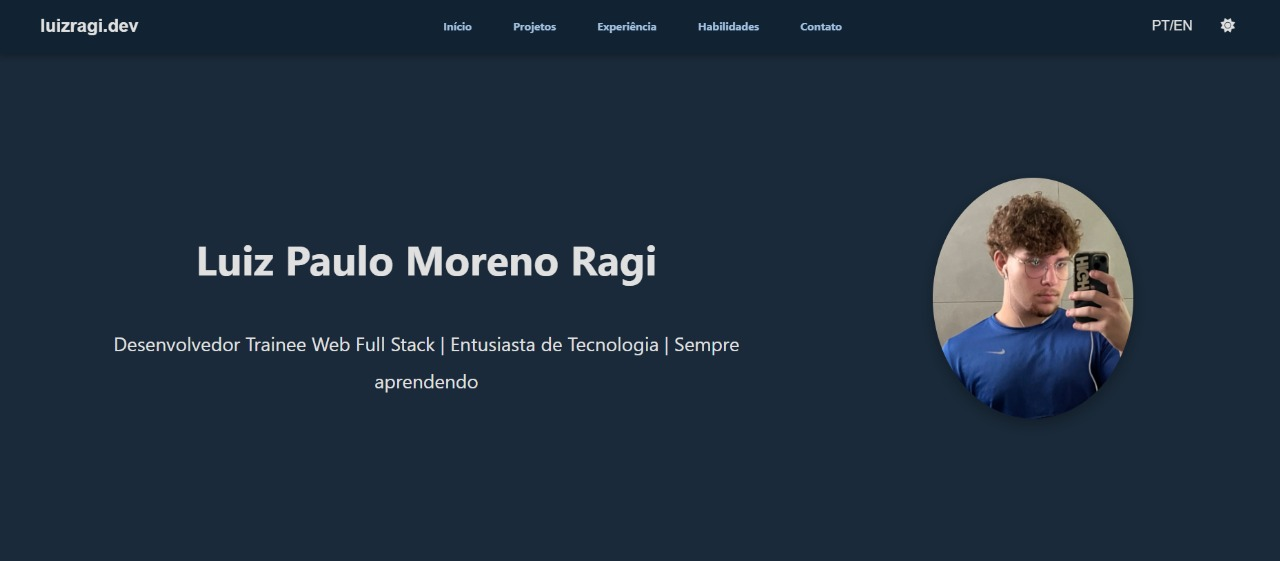
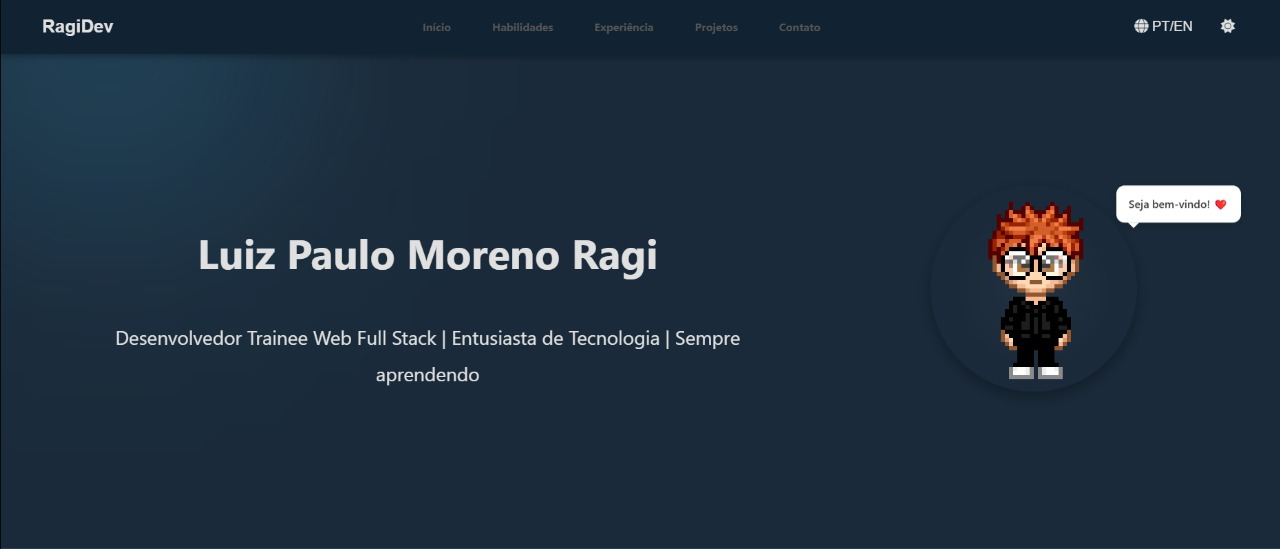
aaaa

diff --git a/index.html b/index.html
@@ -41,11 +41,13 @@
             </div>
 
             <div class="hero-image-wrapper">
-                <div class="hero-image">
-                    <img src="img/icon_pixel.png" alt="Sua Foto" class="profile-image-animated">
-                </div>
-                <div class="speech-bubble">
-                    Seja bem-vindo! ❤
+                <div class="floating-group">
+                    <div class="hero-image">
+                        <img src="img/icon_pixel.png" alt="Sua Foto">
+                    </div>
+                    <div class="speech-bubble">
+                        Seja bem-vindo! ❤
+                    </div>
                 </div>
             </div>
         </section>
@@ -57,31 +59,61 @@
                     <img src="img/icon_html.png" alt="HTML Icon">
                     <h3 data-i18n="skill-html-title">HTML5</h3>
                     <p data-i18n="skill-html-desc">Estruturação de conteúdo semântico.</p>
+                    <div class="skill-bar">
+                        <div class="skill-level" data-level="60%">
+                            <span class="skill-percentage">60%</span>
+                        </div>
+                    </div>
                 </div>
                 <div class="skill-card">
                     <img src="img/icon_css.png" alt="CSS Icon">
                     <h3 data-i18n="skill-css-title">CSS3</h3>
                     <p data-i18n="skill-css-desc">Estilização responsiva e animada.</p>
+                    <div class="skill-bar">
+                        <div class="skill-level" data-level="60%">
+                            <span class="skill-percentage">60%</span>
+                        </div>
+                    </div>
                 </div>
                 <div class="skill-card">
                     <img src="img/icon_js.png" alt="JavaScript Icon">
                     <h3 data-i18n="skill-js-title">JavaScript</h3>
                     <p data-i18n="skill-js-desc">Lógica de programação e interatividade web.</p>
+                    <div class="skill-bar">
+                        <div class="skill-level" data-level="60%">
+                            <span class="skill-percentage">60%</span>
+                        </div>
+                    </div>
                 </div>
                 <div class="skill-card">
                     <img src="img/icon_react.png" alt="React Icon">
                     <h3 data-i18n="skill-react-title">React</h3>
                     <p data-i18n="skill-react-desc">Criação de interfaces de usuário.</p>
+                    <div class="skill-bar">
+                        <div class="skill-level" data-level="35%">
+                            <span class="skill-percentage">35%</span>
+                        </div>
+                    </div>
                 </div>
                 <div class="skill-card">
                     <img src="img/icon_node.png" alt="Node.js Icon">
                     <h3 data-i18n="skill-node-title">Node.js</h3>
                     <p data-i18n="skill-node-desc">Desenvolvimento de back-end com JavaScript.</p>
+                    <div class="skill-bar">
+                        <div class="skill-level" data-level="35%">
+                            <span class="skill-percentage">35%</span>
+                        </div>
+                    </div>
                 </div>
                 <div class="skill-card">
                     <img src="img/icon_yolo.svg" alt="Yolo Icon">
                     <h3 data-i18n="skill-yolo-title">YoloV8</h3>
-                    <p data-i18n="skill-yolo-desc">Identificações de imagens utilizando Ultralytics</p>
+                    <p data-i18n="skill-yolo-desc">Identificações de imagens utilizando Ultralytics.</p>
+                    <div class="skill-bar">
+                        <div class="skill-level" data-level="50%">
+                            <span class="skill-percentage">50%</span>
+                        </div>
+                    </div>
                 </div>
             </div>
         </section>
@@ -149,7 +181,7 @@
                     <button type="submit" data-i18n="contact-button">Enviar Mensagem</button>
                 </form>
                 <div class="social-links">
-                    <a href="lpmragi@gmail.com" target="_blank" class="social-icon"><i class="fas fa-envelope"></i></a>
+                    <a href="mailto:lpmragi@gmail.com" target="_blank" class="social-icon"><i class="fas fa-envelope"></i></a>
                     <a href="https://www.linkedin.com/in/luiz-paulo-moreno-ragi-03211735b/" target="_blank" class="social-icon"><i class="fab fa-linkedin"></i></a>
                     <a href="https://github.com/lpragi09" target="_blank" class="social-icon"><i class="fab fa-github"></i></a>
                 </div>

diff --git a/css/style.css b/css/style.css
@@ -212,13 +212,22 @@ h2 {
     color: var(--text-color);
 }
 
-/* Contêiner que agrupa a imagem e o balão */
 .hero-image-wrapper {
     position: relative;
     flex: 0.5;
     display: flex;
     justify-content: center;
     align-items: center;
+}
+
+/* NOVO: Grupo que contém a imagem e o balão e que vai flutuar */
+.floating-group {
+    position: relative;
+    display: flex;
+    justify-content: center;
+    align-items: center;
+    /* A animação de flutuação foi movida para cá! */
+    animation: float-image 2s ease-in-out infinite alternate;
 }
 
 /* Div que serve de moldura para a imagem (círculo) */
@@ -245,20 +254,20 @@ h2 {
     z-index: -1;
 }
 
-.profile-image-animated {
+/* A imagem em si não precisa mais de animação */
+.hero-image img {
     width: 100%;
     height: 100%;
     object-fit: cover;
     object-position: center;
-    animation: float-image 2s ease-in-out infinite alternate;
     image-rendering: pixelated;
 }
 
-/* --- Balão de Fala --- */
+/* --- Balão de Fala (POSIÇÃO CORRIGIDA) --- */
 .speech-bubble {
     position: absolute;
-    top: 0; /* ALTERADO: De 20px para 0 para subir o balão */
-    left: 72%;
+    top: 0;
+    left: 90%;
     background-color: white;
     color: #333;
     padding: 12px 18px;
@@ -269,6 +278,7 @@ h2 {
     white-space: nowrap;
     z-index: 10;
     opacity: 0;
+    /* A animação de flutuação foi removida daqui para evitar conflito */
     animation: fadeInBubble 0.6s ease-out 2s forwards;
 }
 
@@ -283,6 +293,7 @@ h2 {
     height: 0;
     border: 8px solid transparent;
     border-top-color: white;
+
 }
 
 
@@ -579,4 +590,43 @@ h2 {
         opacity: 1;
         transform: translateY(0);
     }
+}
+
+/* --- Estilos para Barras de Habilidades (NOVO) --- */
+.skill-bar {
+    width: 100%;
+    background-color: rgba(0, 0, 0, 0.1); /* Fundo da barra */
+    border-radius: 5px;
+    margin-top: 25px; /* Espaço entre a descrição e a barra */
+    overflow: hidden; /* Garante que o conteúdo interno não ultrapasse as bordas arredondadas */
+    border: 1px solid var(--border-color);
+}
+
+body.dark-theme .skill-bar {
+    background-color: rgba(255, 255, 255, 0.1);
+}
+
+.skill-level {
+    height: 20px;
+    width: 0; /* Começa com 0 para a animação */
+    background-color: var(--button-bg); /* Usa a cor de destaque do tema */
+    border-radius: 4px;
+    display: flex;
+    align-items: center;
+    justify-content: flex-end; /* Alinha o texto da porcentagem à direita */
+    transition: width 1.5s ease-in-out; /* A mágica da animação */
+}
+
+.skill-percentage {
+    color: var(--button-text); /* Cor do texto da porcentagem */
+    font-size: 12px;
+    font-weight: bold;
+    padding-right: 8px;
+    opacity: 0; /* Começa invisível */
+    transition: opacity 0.5s ease 1s; /* Aparece com um atraso após a barra crescer */
+}
+
+/* Quando a barra é animada, o texto aparece */
+.skill-level[style*="width:"] .skill-percentage {
+    opacity: 1;
 }

diff --git a/js/script.js b/js/script.js
@@ -245,6 +245,37 @@ document.addEventListener('DOMContentLoaded', () => {
         });
     }
 
+    // --- Lógica para animar as barras de habilidades ao rolar (NOVO) ---
+    const skillsSection = document.getElementById('habilidades');
+    const skillLevels = document.querySelectorAll('.skill-level');
+    let skillsAnimated = false; // Flag para garantir que a animação rode apenas uma vez
+
+    const animateSkills = (entries, observer) => {
+        entries.forEach(entry => {
+            // Se a seção de habilidades está visível e a animação ainda não rodou
+            if (entry.isIntersecting && !skillsAnimated) {
+                skillLevels.forEach(skill => {
+                    const level = skill.getAttribute('data-level'); // Pega o valor do data-level (ex: "95%")
+                    skill.style.width = level; // Aplica o valor como largura da barra
+                });
+                skillsAnimated = true; // Marca a animação como concluída
+                observer.unobserve(skillsSection); // Para de observar a seção para otimizar a performance
+            }
+        });
+    };
+
+    // Cria o observador que vai "vigiar" a seção de habilidades
+    const skillObserver = new IntersectionObserver(animateSkills, {
+        root: null, // Observa em relação à viewport
+        threshold: 0.4 // Dispara a animação quando 40% da seção estiver visível
+    });
+
+    // Inicia a observação se a seção de habilidades existir
+    if (skillsSection) {
+        skillObserver.observe(skillsSection);
+    }
+
+
     // Smooth scroll para os links da navbar
     document.querySelectorAll('.navbar a[href^="#"], .navbar-center a[href^="#"]').forEach(anchor => {
         anchor.addEventListener('click', function (e) {
